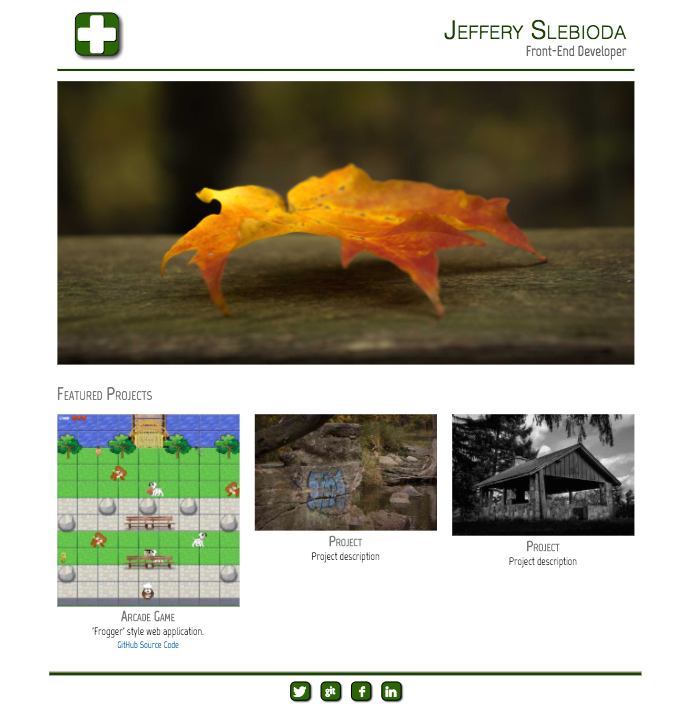
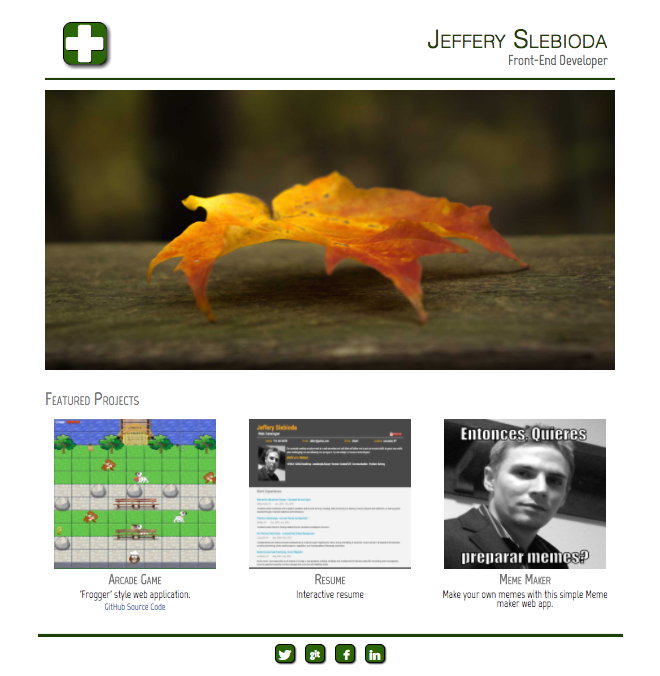
update project urls and styling

diff --git a/js/helper.js b/js/helper.js
@@ -38,24 +38,24 @@ var HTMLprojectDescription = '<p id="projectDescription">%data%</p>';
 var HTMLprojectImage = '<img src="%data%" id="projectPhoto">';
 
 var HTMLworkStart = '<div class="work-entry"></div>';
-var HTMLworkEmployer = '<a href="#">%data%';
+var HTMLworkEmployer = '<a href="#" id="workTitle">%data%';
 var HTMLworkTitle = ' - %data%</a>';
 var HTMLworkDates = '<div class="date-text">%data%</div>';
 var HTMLworkLocation = '<div class="location-text">%data%</div>';
 var HTMLworkDescription = '<p class="workDescription">%data%</p>';
 
 var HTMLschoolStart = '<div class="education-entry"></div>';
-var HTMLschoolName = '<a href="#">%data%';
+var HTMLschoolName = '<a href="#" id="schoolName">%data%';
 var HTMLschoolDegree = ' -- %data%</a>';
 var HTMLschoolDates = '<div class="date-text">%data%</div>';
 var HTMLschoolLocation = '<div class="location-text">%data%</div>';
 var HTMLschoolMajor = '<em><br>Major: %data%</em>';
 
 var HTMLonlineClasses = '<h3 class="onlineHead">Online Classes</h3>';
-var HTMLonlineTitle = '<a href="#">%data%';
+var HTMLonlineTitle = '<a href="#" id="onlineName">%data%';
 var HTMLonlineSchool = '%data%</a>';
 var HTMLonlineDates = '<div class="date-text">%data%</div>';
-var HTMLonlineURL = '<br><a href="#">%data%</a>';
+var HTMLonlineURL = '<br><a href="#" id="onlineURL">%data%</a>';
 
 var internationalizeButton = '<button>Internationalize</button>';
 var googleMap = '<div id="map"></div>';

diff --git a/js/resumeBuilder.js b/js/resumeBuilder.js
@@ -126,16 +126,19 @@ var projects = {
         "dates": "Dec. 2016",
         "description": "A portfolio website built using responsive/mobile design.",
         "images": ["images/portfolio.png"],
+        "url": "https://jsleb1.github.io/portfolio"
     }, {
         "title": "Arcade Game",
         "dates": "Dec. 2016",
         "description": "A Frogger style arcade game built using Javascript/HTML/CSS.",
         "images": ["images/arcade.png"],
+        "url": "https://jsleb1.github.io/ArcadeGame"
     }, {
         "title": "Simple Meme Maker",
         "dates": "Dec. 2016",
         "description": "So, you want to make Memes?",
         "images": ["images/memes.png"],
+        "url": "https://jsleb1.github.io/resume"
     }]
 };
 
@@ -143,7 +146,8 @@ projects.display = function() {
     for (var i = 0; i < projects.projects.length; i++) {
         $("#projectSection").append(HTMLprojectStart);
 
-        var formattedTitle = HTMLprojectTitle.replace("%data%", projects.projects[i].title);
+        var projectTitleURL = HTMLprojectTitle.replace("#", projects.projects[i].url);
+        var formattedTitle = projectTitleURL.replace("%data%", projects.projects[i].title);
         var formattedDates = HTMLprojectDates.replace("%data%", projects.projects[i].dates);
         var formattedTitleDates = formattedTitle + formattedDates;
         $(".project-entry:last").append(formattedTitleDates);

diff --git a/css/style.css b/css/style.css
@@ -244,13 +244,25 @@ span {
     margin-top: 0;
 }
 
+#workTitle {
+    color: #f5ae23;
+}
+
 /* Education Section */
+
+#schoolName {
+    color: #f5ae23;
+}
 
 .onlineHead {
     text-align: left;
     margin-top: 20px;
     padding-left: 0;
     color: #888;
+}
+
+#onlineName, #onlineURL {
+    color: #f5ae23;
 }
 
 /*Project Section */
@@ -308,11 +320,16 @@ span {
 }
 
 #projectLink {
+    color: #f5ae23;
     margin: 0;
     padding: 0;
     margin-right: 5px;
     margin-left: 25%;
     vertical-align: bottom;
+}
+
+#projectLink:hover {
+    color: white;
 }
 
 #projectDate {
